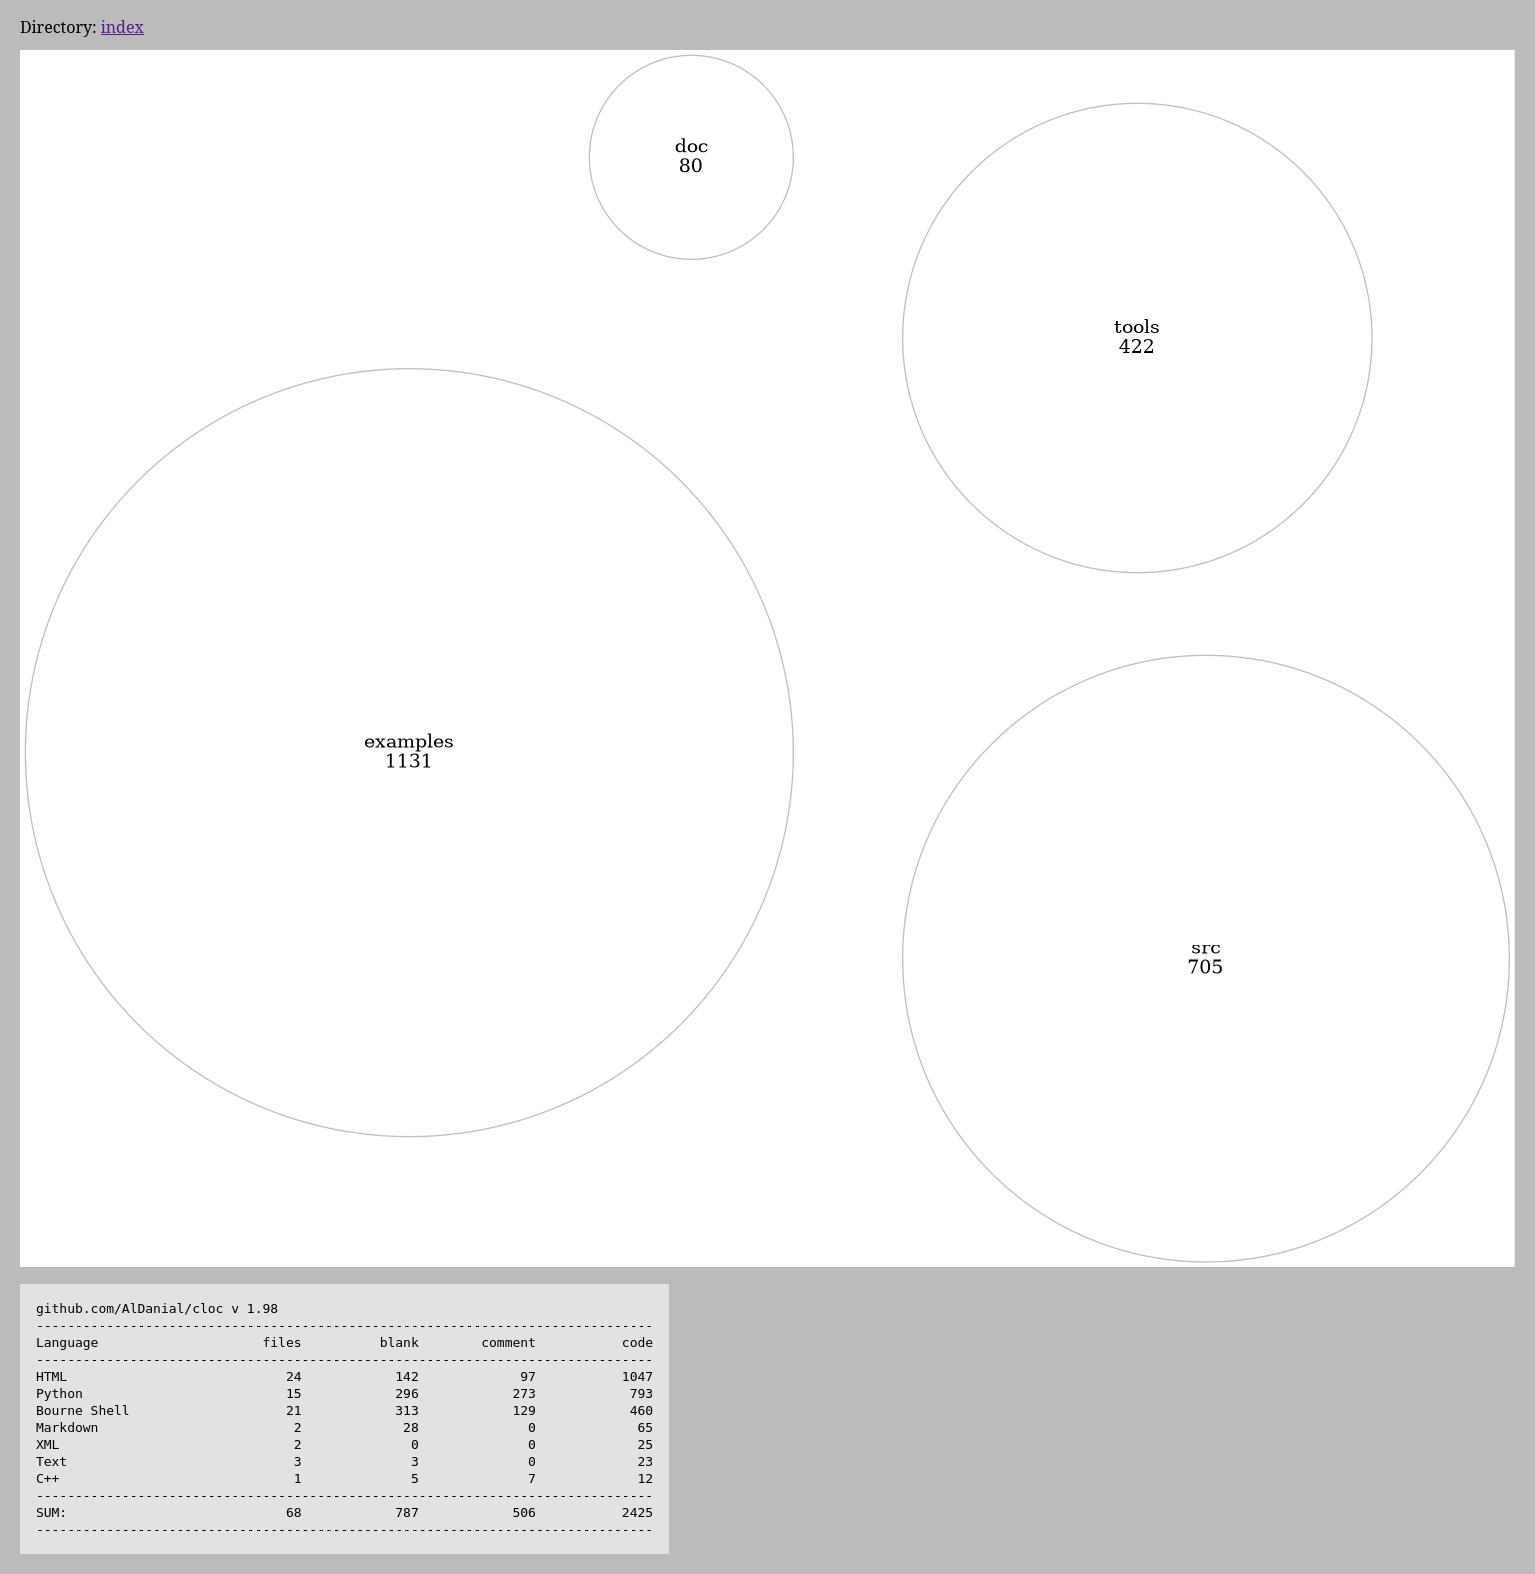
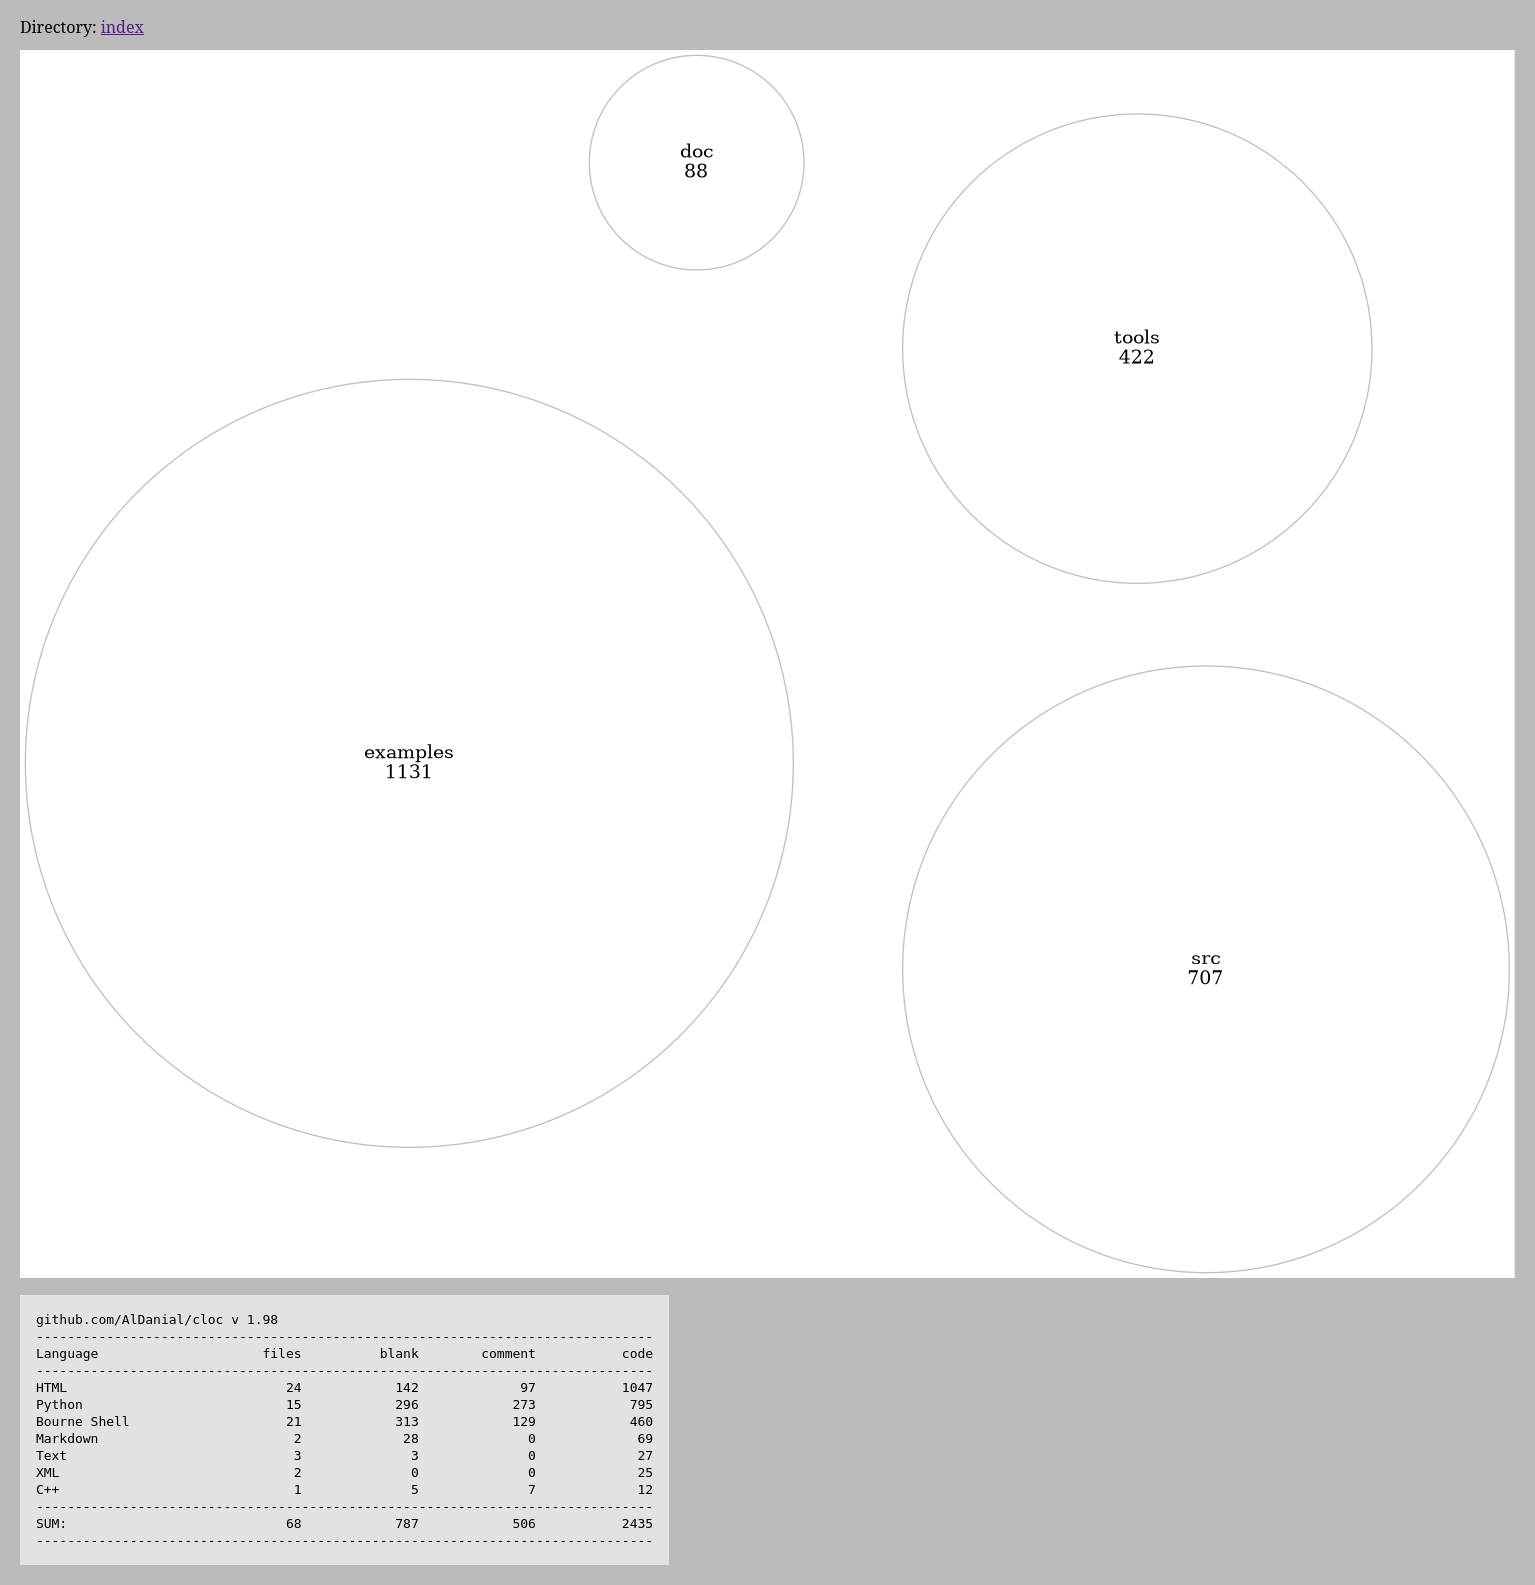
Add --exclude-lang option

diff --git a/examples/project/cloc_tree/graphs/index.html b/examples/project/cloc_tree/graphs/index.html
@@ -38,13 +38,13 @@ Project is distributed under the BSD 3-Clause license.
         <img src="index.png" alt="graph" usemap="#index">
 <map id="index" name="index">
 <area shape="circle" id="node1" href="index_src.html" title="node: src
-705" alt="" coords="1186,909,303"/>
+707" alt="" coords="1186,919,303"/>
 <area shape="circle" id="node2" href="index_tools.html" title="node: tools
-422" alt="" coords="1117,288,235"/>
+422" alt="" coords="1117,299,235"/>
 <area shape="circle" id="node3" href="index_doc.html" title="node: doc
-80" alt="" coords="671,107,102"/>
+88" alt="" coords="677,113,107"/>
 <area shape="circle" id="node4" href="index_examples.html" title="node: examples
-1131" alt="" coords="389,703,384"/>
+1131" alt="" coords="389,713,384"/>
 </map>
 
 
@@ -54,14 +54,14 @@ Project is distributed under the BSD 3-Clause license.
 Language                     files          blank        comment           code
 -------------------------------------------------------------------------------
 HTML                            24            142             97           1047
-Python                          15            296            273            793
+Python                          15            296            273            795
 Bourne Shell                    21            313            129            460
-Markdown                         2             28              0             65
+Markdown                         2             28              0             69
+Text                             3              3              0             27
 XML                              2              0              0             25
-Text                             3              3              0             23
 C++                              1              5              7             12
 -------------------------------------------------------------------------------
-SUM:                            68            787            506           2425
+SUM:                            68            787            506           2435
 -------------------------------------------------------------------------------
 </pre>
 </body>

diff --git a/examples/project/cloc_tree/graphs/index_src.html b/examples/project/cloc_tree/graphs/index_src.html
@@ -38,9 +38,9 @@ Project is distributed under the BSD 3-Clause license.
         <img src="index_src.png" alt="graph" usemap="#index_src">
 <map id="index_src" name="index_src">
 <area shape="circle" id="node1" href="index_src_clocdirtree.html" title="node: clocdirtree
-489" alt="" coords="389,389,384"/>
+491" alt="" coords="389,389,384"/>
 <area shape="circle" id="node2" href="index_src_testclocdirtree.html" title="node: testclocdirtree
-166" alt="" coords="1148,620,224"/>
+166" alt="" coords="1147,621,224"/>
 </map>
 
 
@@ -49,11 +49,11 @@ Project is distributed under the BSD 3-Clause license.
 -------------------------------------------------------------------------------
 Language                     files          blank        comment           code
 -------------------------------------------------------------------------------
-Python                          14            262            250            687
+Python                          14            262            250            689
 Bourne Shell                     3             22             16             17
 Text                             1              1              0              1
 -------------------------------------------------------------------------------
-SUM:                            18            285            266            705
+SUM:                            18            285            266            707
 -------------------------------------------------------------------------------
 </pre>
 </body>

diff --git a/examples/project/cloc_tree/graphs/index_doc.html b/examples/project/cloc_tree/graphs/index_doc.html
@@ -42,10 +42,10 @@ no subdirs with results
 Language                     files          blank        comment           code
 -------------------------------------------------------------------------------
 Bourne Shell                     2             28             11             45
-Markdown                         1              2              0             19
-Text                             1              2              0             16
+Markdown                         1              2              0             23
+Text                             1              2              0             20
 -------------------------------------------------------------------------------
-SUM:                             4             32             11             80
+SUM:                             4             32             11             88
 -------------------------------------------------------------------------------
 </pre>
 </body>

diff --git a/examples/project/cloc_tree/graphs/index_src_clocdirtree.html b/examples/project/cloc_tree/graphs/index_src_clocdirtree.html
@@ -41,9 +41,9 @@ no subdirs with results
 -------------------------------------------------------------------------------
 Language                     files          blank        comment           code
 -------------------------------------------------------------------------------
-Python                           8            193            184            489
+Python                           8            193            184            491
 -------------------------------------------------------------------------------
-SUM:                             8            193            184            489
+SUM:                             8            193            184            491
 -------------------------------------------------------------------------------
 </pre>
 </body>

diff --git a/src/clocdirtree/clocparser.py b/src/clocdirtree/clocparser.py
@@ -52,7 +52,7 @@ def get_dirs_list(start_dir, recursive=False):
     return dirs_list
 
 
-def cloc_dirs(dirs_list, exclude_languages=None, cloc_params_dict=None):
+def cloc_dirs(dirs_list, cloc_params_dict=None):
     """Run cloc against given list of directory paths."""
     _LOGGER.info("checking directories:\n%s", "\n".join(dirs_list))
     ret_dict = {}
@@ -61,9 +61,7 @@ def cloc_dirs(dirs_list, exclude_languages=None, cloc_params_dict=None):
         result_queue = []
 
         for dir_path in dirs_list:
-            async_result = process_pool.apply_async(
-                execute_cloc, [dir_path, "raw", exclude_languages, cloc_params_dict]
-            )
+            async_result = process_pool.apply_async(execute_cloc, [dir_path, "raw", cloc_params_dict])
             result_queue.append((dir_path, async_result))
 
         # wait for results
@@ -76,7 +74,7 @@ def cloc_dirs(dirs_list, exclude_languages=None, cloc_params_dict=None):
     return ret_dict
 
 
-def execute_cloc(sources_dir, mode, exclude_languages=None, cloc_params_dict=None):
+def execute_cloc(sources_dir, mode, cloc_params_dict=None):
     _LOGGER.info(f"counting code on: {sources_dir}")  # pylint: disable=W1203
 
     command = ["cloc", "--sum-one", "--hide-rate"]
@@ -115,26 +113,22 @@ def execute_cloc(sources_dir, mode, exclude_languages=None, cloc_params_dict=Non
 
     # _LOGGER.info( "cloc output:\n%s", output )
 
-    return parse_cloc_output(output, mode, exclude_languages)
+    return parse_cloc_output(output, mode)
 
 
-def parse_cloc_file(file_path, ignore=None):
+def parse_cloc_file(file_path):
     try:
         content = read_file(file_path)
-        return parse_cloc_output(content, "raw", ignore)
+        return parse_cloc_output(content, "raw")
 
     except BaseException:
         _LOGGER.error("error while loading file: %s content:\n%s", file_path, content)
         raise
 
 
-def parse_cloc_output(content, mode="raw", exclude_languages=None):
-    if exclude_languages is None:
-        exclude_languages = []
-
+def parse_cloc_output(content, mode="raw"):
     output = content
     overall_code = 0
-    exclude_sum = 0
 
     if mode == "raw":
         # output = output.splitlines()
@@ -142,19 +136,15 @@ def parse_cloc_output(content, mode="raw", exclude_languages=None):
         # output = "\n".join(output)
 
         overall_code = parse_cloc_raw(output)
-        for item in exclude_languages:
-            exclude_sum += parse_cloc_raw(output, item)
 
     elif mode == "json":
         output = json.loads(output)
         overall_code = parse_cloc_json(output)
-        for item in exclude_languages:
-            exclude_sum += parse_cloc_json(output, item)
 
     else:
         raise RuntimeError(f"unhandled mode: '{mode}'")
 
-    return overall_code - exclude_sum, output
+    return overall_code, output
 
 
 def parse_cloc_raw(content, language="SUM"):

diff --git a/src/clocdirtree/main.py b/src/clocdirtree/main.py
@@ -60,6 +60,10 @@ def process_cloc(args):
     if cloc_include_langs:
         cloc_params_dict["--include-lang"] = cloc_include_langs
 
+    cloc_exclude_langs = ",".join(args.exclude_lang)
+    if cloc_exclude_langs:
+        cloc_params_dict["--exclude-lang"] = cloc_exclude_langs
+
     cloc_data_dict = cloc_dirs(dirs_list, cloc_params_dict=cloc_params_dict)
     cloc_data_dict = {item_key.removeprefix(run_dir): item_val for item_key, item_val in cloc_data_dict.items()}
 
@@ -239,6 +243,12 @@ def main():
         nargs="+",
         default=[],
         help="Space separated list of languages to include.",
+    )
+    parser.add_argument(
+        "--exclude-lang",
+        nargs="+",
+        default=[],
+        help="Space separated list of languages to exclude.",
     )
 
     ## =================================================

diff --git a/doc/cmdargs.md b/doc/cmdargs.md
@@ -3,6 +3,7 @@
 usage: python3 -m clocdirtree.main [-h] [-la] --clocdir CLOCDIR --outdir
                                    OUTDIR [--exclude EXCLUDE [EXCLUDE ...]]
                                    [--include-lang INCLUDE_LANG [INCLUDE_LANG ...]]
+                                   [--exclude-lang EXCLUDE_LANG [EXCLUDE_LANG ...]]
 
 dump cloc data and navigate it as directory tree
 
@@ -17,5 +18,8 @@ options:
                         [])
   --include-lang INCLUDE_LANG [INCLUDE_LANG ...]
                         Space separated list of languages to include.
+                        (default: [])
+  --exclude-lang EXCLUDE_LANG [EXCLUDE_LANG ...]
+                        Space separated list of languages to exclude.
                         (default: [])
 ```
